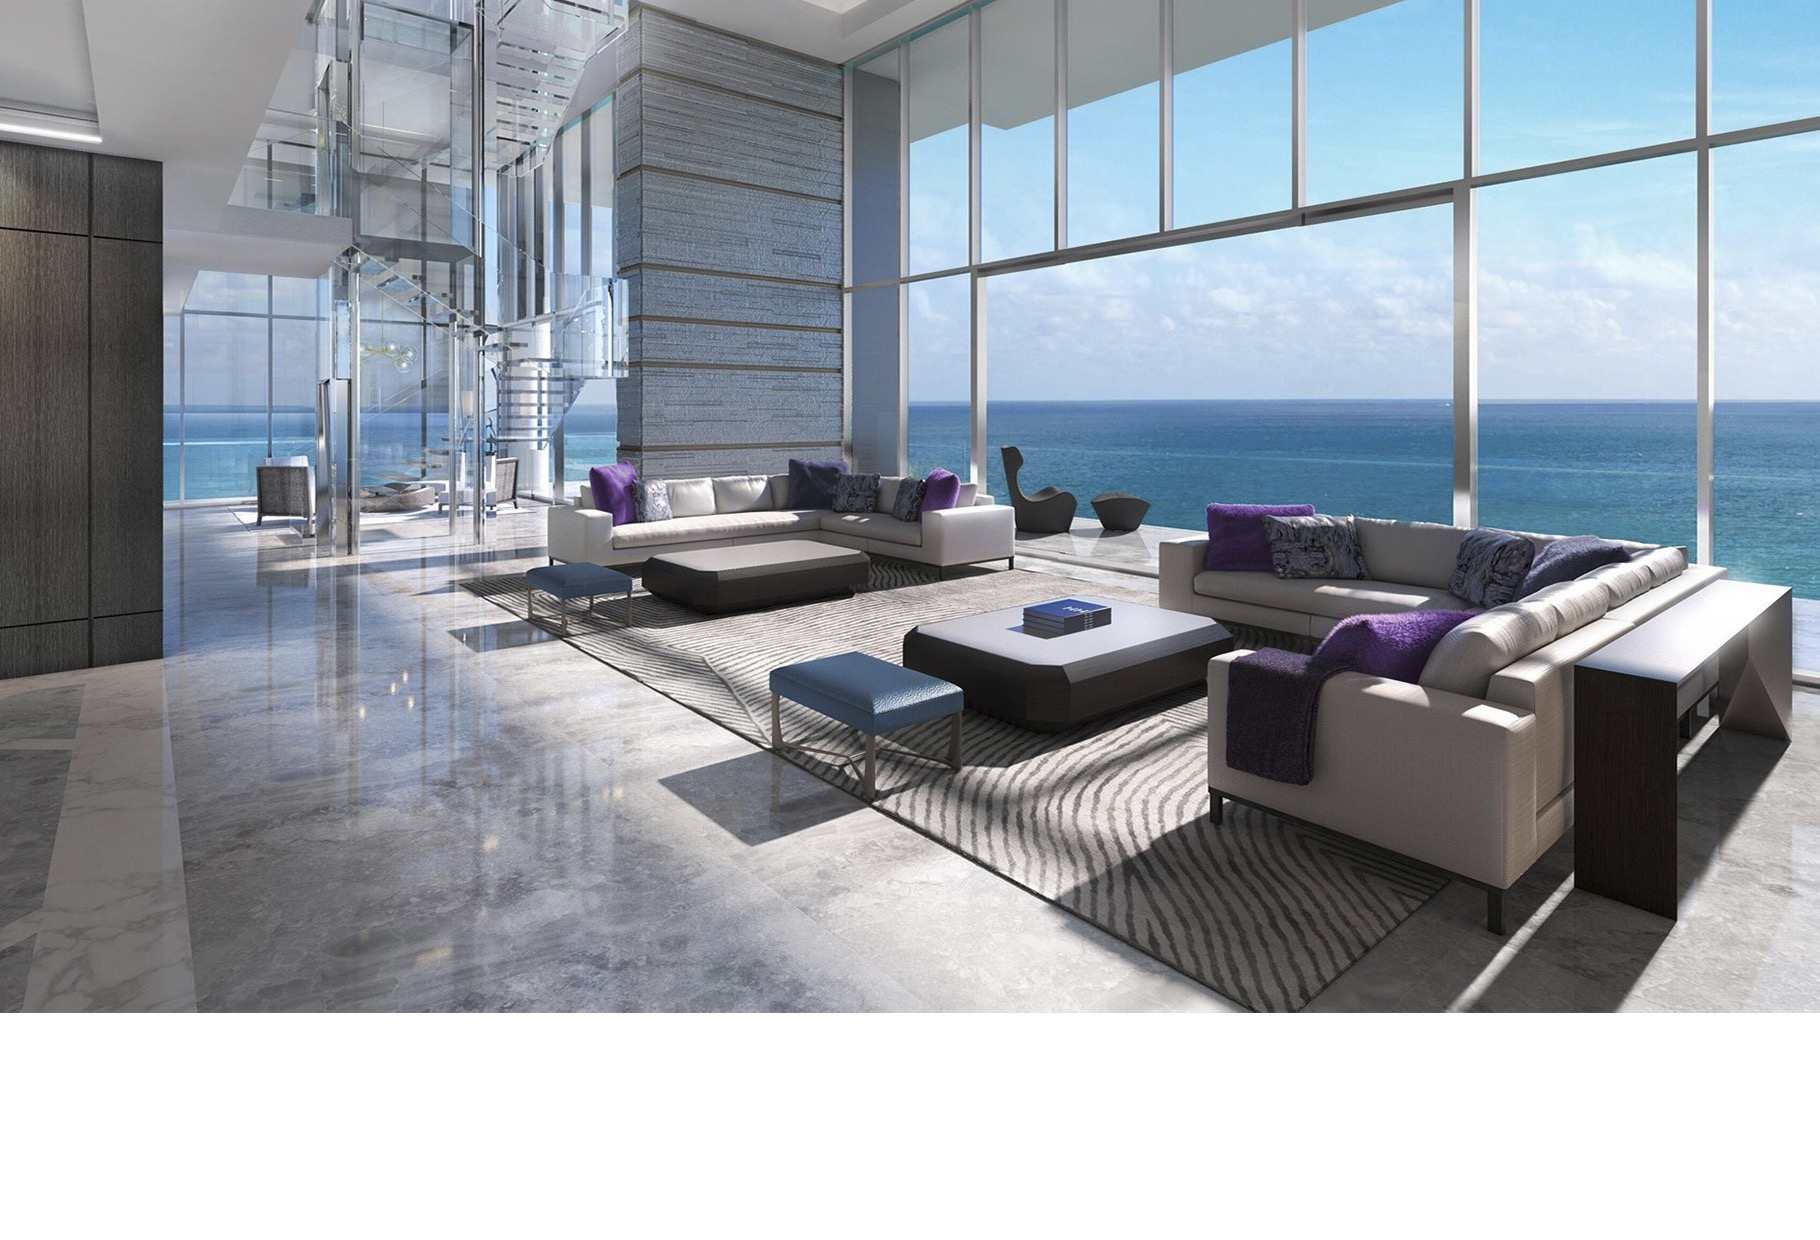
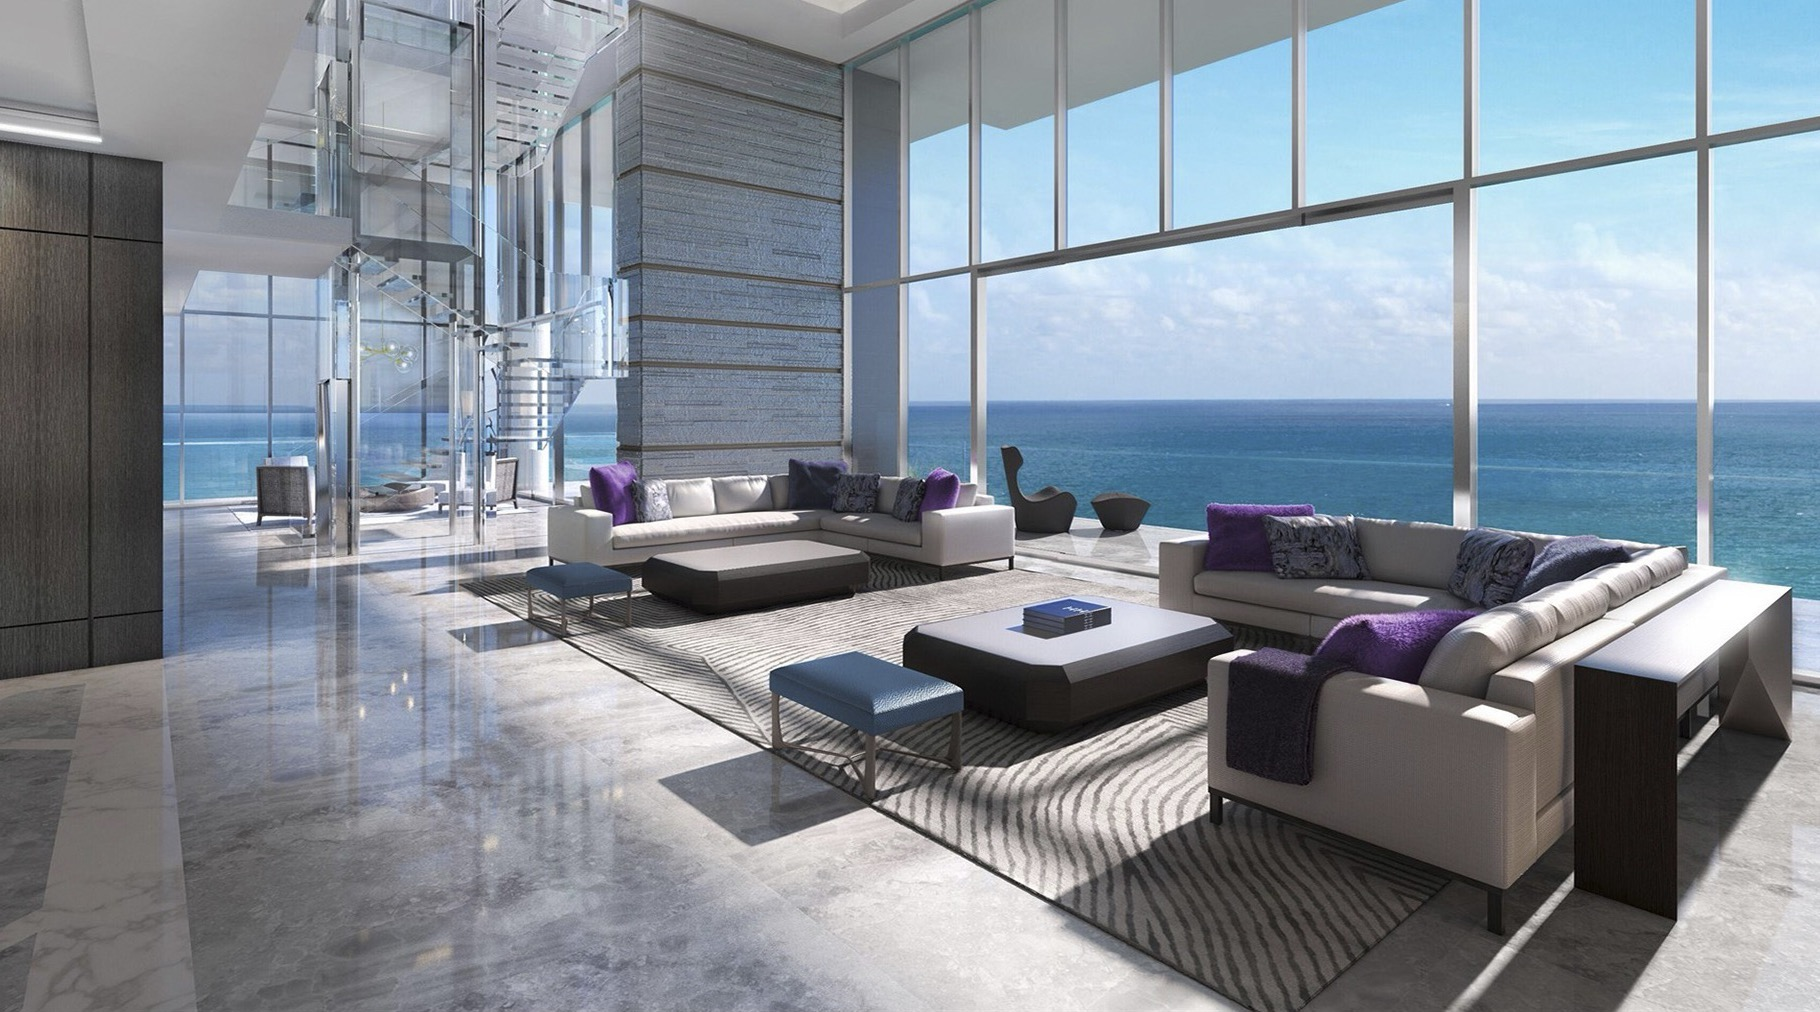
Fix mobile navbar X button and update hero images
Raise header z-index above mobile overlay when menu is open so the
close button is clickable. Update hero images.

diff --git a/src/components/Navbar.tsx b/src/components/Navbar.tsx
@@ -40,7 +40,7 @@ export default function Navbar() {
         initial={{ y: -100 }}
         animate={{ y: 0 }}
         transition={{ duration: 0.8, ease: [0.16, 1, 0.3, 1] }}
-        className={`fixed top-0 left-0 right-0 z-50 transition-all duration-700 ${scrolled
+        className={`fixed top-0 left-0 right-0 ${mobileOpen ? "z-[60]" : "z-50"} transition-all duration-700 ${scrolled
           ? "bg-navy/95 backdrop-blur-xl shadow-2xl py-3"
           : "bg-gradient-to-b from-black/40 to-transparent py-5"
           }`}
